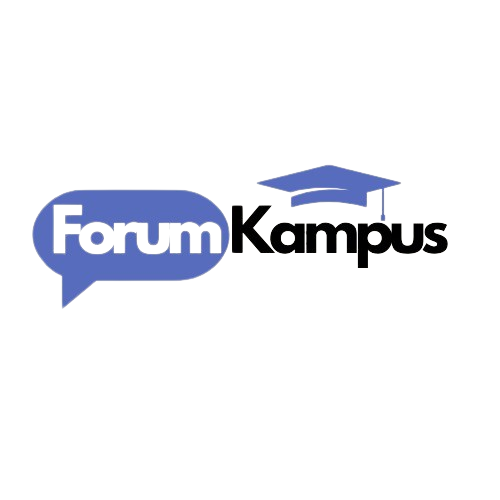
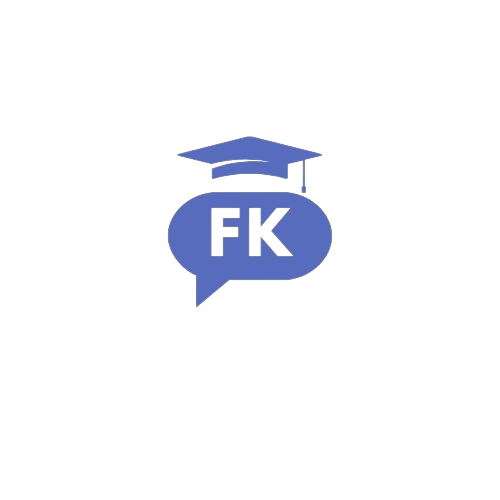
Update Searching

Changed region(s): [[0.06, 0.27, 0.9, 0.63]]

diff --git a/src/assets/Layouts/Navbar/index.jsx b/src/assets/Layouts/Navbar/index.jsx
@@ -164,7 +164,8 @@ const Navbar = () => {
           <img
             src="./../Image/fk.png"
             alt="Logo"
-            className="max-w-[106px] aspect-video"
+            width={60}
+            className="scale-150 aspect-square"
           />
           <div className="flex items-center gap-4">
             <button onClick={() => setOnSearch(true)}>

diff --git a/index.html b/index.html
@@ -2,7 +2,7 @@
 <html lang="en">
   <head>
     <meta charset="UTF-8" />
-    <link rel="icon" type="image/svg+xml" href="/vite.svg" />
+    <link rel="icon" type="image/png" href="/Image/fk.png" />
     <meta name="viewport" content="width=device-width, initial-scale=1.0" />
     <title>Forum Kampus</title>
   </head>
